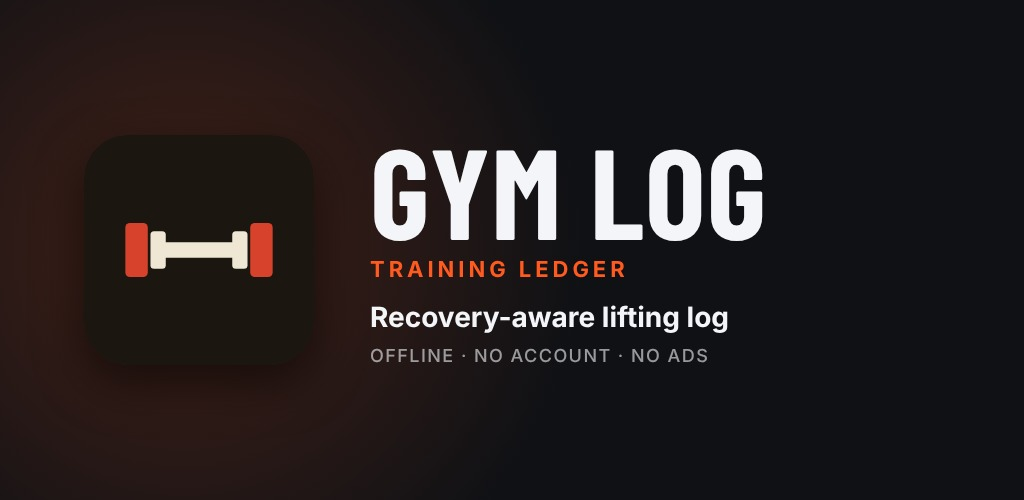
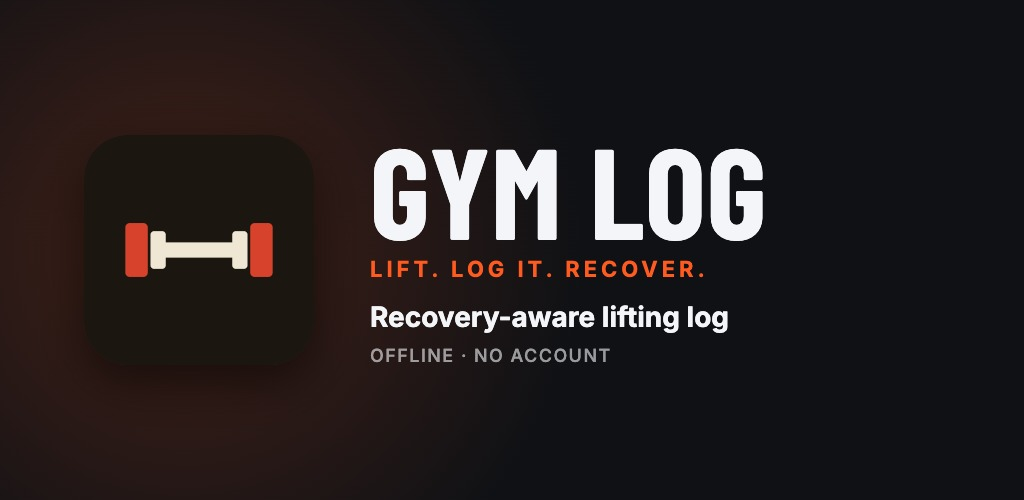
Retitle the store listing to Gym Log: Lift & Recover
Play already has an app called "Training Ledger: Workout Log", and our title
contained that exact name, so drop it from everything public: the listing,
the feature graphics, the web pages and the header label on the older themes.
It stays only as the internal name of the design style.

Reword the listing for search, since neither description said "workout", and
remove "No ads" from the feature graphics, which Google discourages as
promotional wording.

Name GalagoGen as the developer in the privacy policy, which Play asks for, and
replace the manifest description that still described the deleted routine
builder.

Note in the release doc that the store listing is English only for now.

diff --git a/index.html b/index.html
@@ -33,7 +33,7 @@
     </script>
     <meta
       name="description"
-      content="See your body's readiness at a glance, log training sessions set by set, and analyse your history with Claude — a vintage athletic training ledger."
+      content="See your body's readiness at a glance, log training sessions set by set, and analyse your history with Claude."
     />
     <link rel="icon" type="image/svg+xml" href="./favicon.svg" />
     <link rel="manifest" href="./manifest.webmanifest" />
@@ -42,7 +42,7 @@
     <meta name="apple-mobile-web-app-capable" content="yes" />
     <meta name="apple-mobile-web-app-status-bar-style" content="black-translucent" />
     <meta name="apple-mobile-web-app-title" content="Gym Log" />
-    <title>Gym Log · Training Ledger</title>
+    <title>Gym Log: Lift &amp; Recover</title>
   </head>
   <body>
     <svg class="grain" aria-hidden="true" preserveAspectRatio="none">

diff --git a/public/privacy.html b/public/privacy.html
@@ -70,13 +70,13 @@
   </head>
   <body>
     <main>
-      <p class="eyebrow">Gym Log · Training Ledger</p>
+      <p class="eyebrow">Gym Log: Lift &amp; Recover</p>
       <h1>Privacy Policy</h1>
-      <p>Last updated: 15 October 2026</p>
+      <p>Last updated: 3 November 2026</p>
 
       <p>
-        Gym Log ("the app") is a privacy-first, offline-first training log, available on the web and
-        as an Android app. The short version: <strong>your training data stays on your device.</strong>
+        Gym Log ("the app") is a privacy-first, offline-first training log from GalagoGen, available on
+        the web and as an Android app. The short version: <strong>your training data stays on your device.</strong>
         There are no accounts, no logins, no ads, and no server that stores your workouts.
       </p>
 

diff --git a/public/terms.html b/public/terms.html
@@ -76,7 +76,7 @@
   </head>
   <body>
     <main>
-      <p class="eyebrow">Gym Log · Training Ledger</p>
+      <p class="eyebrow">Gym Log: Lift &amp; Recover</p>
       <h1>Terms of Use</h1>
       <p>Last updated: 15 October 2026</p>
 

diff --git a/src/styles.css b/src/styles.css
@@ -550,7 +550,7 @@ textarea {
 }
 
 .brand::after {
-  content: "TRAINING LEDGER · Nº 01";
+  content: "LIFT & RECOVER · Nº 01";
   display: inline-block;
   white-space: nowrap;
   font-family: var(--font-mono);

diff --git a/docs/play-release.md b/docs/play-release.md
@@ -44,7 +44,7 @@ npm run play:promote -- to:production rollout:0.2   # see "Promote" below
    Keep **Play App Signing** on when the console offers it (the default): Google
    holds the app-signing key, and your key above is only the *upload* key, which
    Google can reset if it's lost.
-3. **Create the app** in the console: name *Gym Log · Training Ledger*, default
+3. **Create the app** in the console: name *Gym Log: Lift & Recover*, default
    language English (United States), *App*, *Free*.
 4. **First upload by hand:** Google requires the first AAB to go through the
    console. Run `npm run build:android:release`, then upload
@@ -115,13 +115,17 @@ enter them by hand instead, paste from the same files.
 
 - **App category:** Health & Fitness. **Tags:** workout tracker, gym log, strength
   training.
+- **Title:** don't put "Training Ledger" in public copy. Play already has an app called *Training Ledger: Workout Log*, so here it only names the design style.
 - **Contact e-mail:** the one in the privacy policy. Website: the GitHub Pages URL.
 - **Graphics:** `images/icon.png` (512×512, full-bleed; Play adds the rounded
   mask), `images/featureGraphic.jpg` (1024×500), `images/phoneScreenshots/*.jpg`
   (5 × 1080×1920, captioned; JPEG because Play rejects alpha channels). Play accepts 2 to 8 phone screenshots. Tablet
   screenshots are optional; the app is portrait phone-first.
-- **Romanian (ro):** a full translated listing ships alongside en-US. Add the
-  language under *Manage translations* if you enter it by hand.
+- **Romanian (ro):** the store listing is English only for now, though the app
+  itself has both languages. The translated listing stays ready in `ro/`; add it
+  under *Manage translations* when you want it live. Fastlane uploads should pick up
+  every language folder, so exclude `ro/` before using `play:metadata` or
+  `play:internal` until then.
 
 ## Smoke test before promoting
 
